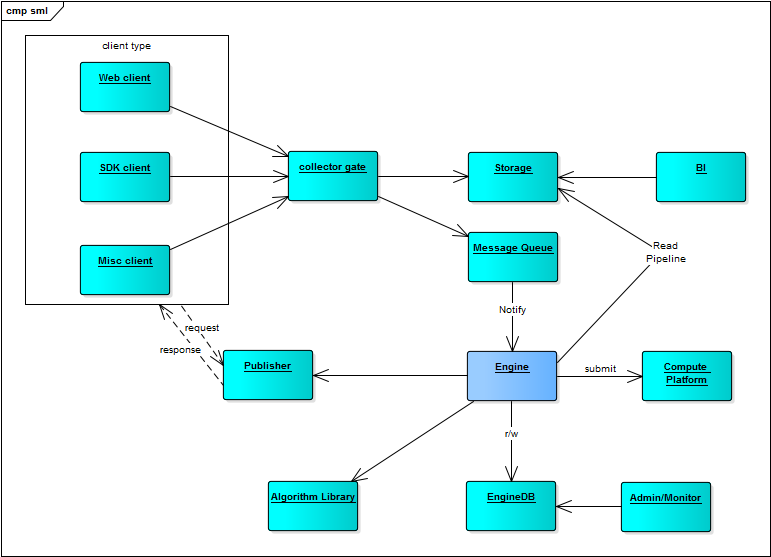
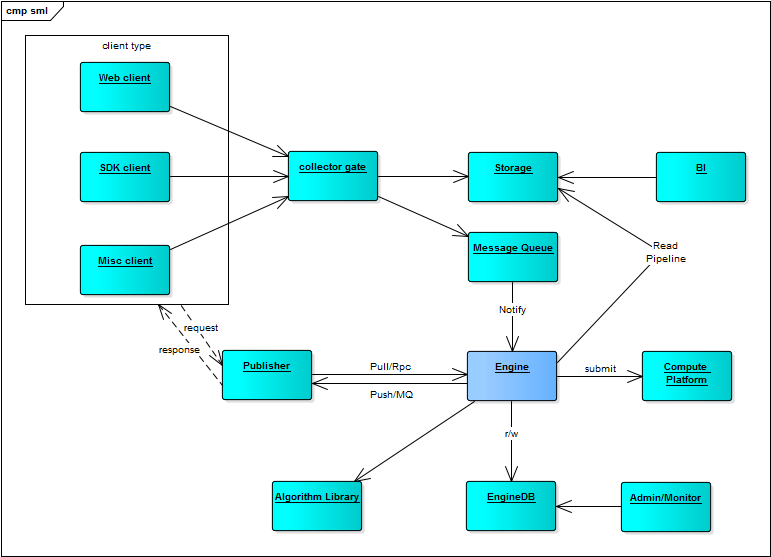
design update

diff --git a/src/test/java/principality/me/springtest/FakeUserDataGenerator.java b/src/test/java/principality/me/springtest/FakeUserDataGenerator.java
@@ -1,0 +1,14 @@
+package principality.me.springtest;
+
+import junit.framework.TestCase;
+
+public class FakeUserDataGenerator extends TestCase {
+    public void setUp() throws Exception {
+    }
+
+    public void tearDown() throws Exception {
+    }
+
+    public void testAdd() {
+    }
+}

diff --git a/README.md b/README.md
@@ -1,24 +1,26 @@
-# 智能计算引擎: sml
+# 智能引擎: sml
 
-SML尝试解决基础建设的问题，提供数据导入、模型试验、模型部署、对外接口这一系列大数据智能应用所需
-的基础性设施，简化从数据试验到上线运行的过程，降低整体研发成本。
+SML尝试解决智能计算基础建设的问题，提供数据导入、模型试验、模型部署、对外接口这一系列
+大数据智能应用所需的基础性设施，简化从数据试验到上线运行的过程，降低整体研发成本。
 
-理想的情况，完成模型设计和试验后，可直接把模型部署上线，即可提供服务。
+用户可以采取模板化的方式，通过对内置的算法模块，进行模板化的设置和导入数据后，即可使用服务。
+理想的情况，完成模型设计和试验后，可直接把模型部署上线，提供服务。
 
-SML使用JAVA开发，以便于生产环境的正式部署。基于JAVA的方案，便于功能二次开发，更适合商业环境的
-实际使用。底层计划整合spark, tensorflow作为计算引擎，以便和目前流行的深度学习方案&大数据方案
+SML使用JAVA开发，以满足生产环境正式部署的需求。基于JAVA的方案，便于功能二次开发，更适合商业环境的
+实际使用。底层计划整合spark, dl4j作为计算引擎，以便和目前流行的深度学习方案&大数据方案
 接轨，为实际应用提供更多的可能性。
+
+# 算法
+
+参考：https://github.com/principality/recsys
 
 # 特性
 
 - 一站式部署方案，简化部署管理
-- 提供对外的调用接口，便于和其他应用对接
-- 简便的使用接口，图形化管理后台（？）
-
-# 开发环境
-
-- Spark需要设置HADOOP_HOME
-- Idea运行需要设置运行参数-Dspark.master=local {单机单线程运行使用local，单机多线程local[N]}
+- 方便的对外调用接口，便于和其他应用对接
+- 简便的使用接口，模板化的模型配置方式
+- 图形化管理后台
+- PaaS级别的架构设计，具有良好的横向拓展能力
 
 # 安装步骤
 
@@ -26,3 +28,7 @@ SML使用JAVA开发，以便于生产环境的正式部署。基于JAVA的方案
 
 ### linux
 
+# 开发环境
+
+- 设置JAVA_HOME, HADOOP_HOME, SPARK_HOME
+- Spark运行设置运行参数-Dspark.master=local {单机单线程运行使用local，单机多线程local[N]}

diff --git a/doc/DESIGN.md b/doc/DESIGN.md
@@ -43,10 +43,10 @@
 
 - pipeline: data reader, writer, formatter for storage (*)
 - scratch: sample code for practise
-- sml:
+- sml: (*)
   - core, {algorithm-controller, training-dataset, training-workflow, trained-model}
-  - algorithm {for train, for service-such as: adaboost multiple models} (*)
-- service: service interface, use spring framework
+  - algorithm {for train, for service-such as: adaboost multiple models}
+- publisher: service interface, use spring framework
   - http
   - websocket + kafka
 - admin: (*)
@@ -106,9 +106,7 @@
 存在差异，以及结果输出时，对数据格式有不同的要求，应当提供
 数据预处理管道，满足各种场景。
 
-# 控制组件
-
-### 引擎
+### 控制组件：引擎
 
 实现类，对算法引擎的实现，核心是训练和评估
 - 训练：计算获取模型，并保存
@@ -116,15 +114,13 @@
 - 模型持久化：考虑模型有单机和多机两种情况，保存的策略不一样（单机训练，多机部署/多机训练，单机部署）
 - 评估：调用引擎的评估计算，返回结果，结果可用于保存，方便评估
 
-### 评估
+### 控制组件：评估
 
 评估包含引擎和评估量度(metric)，继承自deployment(deployment extends EngineFactory)
 
 ### 量度 Metric
 
 对结果进行评估，包括有平均值、方差、汇集、零值等
-
-# 流程组件
 
 ### 流程参数
 
@@ -138,10 +134,10 @@
 
 包括数据的读入、初始化、格式转换等等功能
 
-### 插件
+### 服务插件
 
 定义引擎的插件接口，可以从持久化介质装载到运行态
 
-### 服务器
+### 服务接口热插拔
 
-基于actor系统的服务器实现，利用actor的可更新功能，实现插件的热插拔
+基于actor系统的服务器实现，可利用actor的可更新功能，实现插件的热插拔

diff --git a/doc/DATA.md b/doc/DATA.md
@@ -12,10 +12,6 @@
 - 启动模型训练，获得模型的评估量度
 - 模型上线，启动模型服务
 
-### 数据常用格式
-
-配合Restful的流行，json被广泛采用
-
 ### 消息定义
 
 /where/who/when/what/how/why
@@ -23,6 +19,21 @@
 
 如何处理第三方数据更新？
 /厂家/业务/商品/行为{添加|更新}/参数
+
+### 数据例子
+
+| user | action1     | action2       | action3     |
+|------|-------------|---------------|-------------|
+|user1 | login:time  | buy:item1     | award:item7 |
+|user2 | login:time  | buy:item3     |   .....     |
+
+| item   | cost  | type  |
+|--------|-------|-------|
+| item1  | cost1 | type3 |
+
+### 数据常用格式
+
+配合Restful的流行，json被广泛采用
 
 ### 消息保存
 
